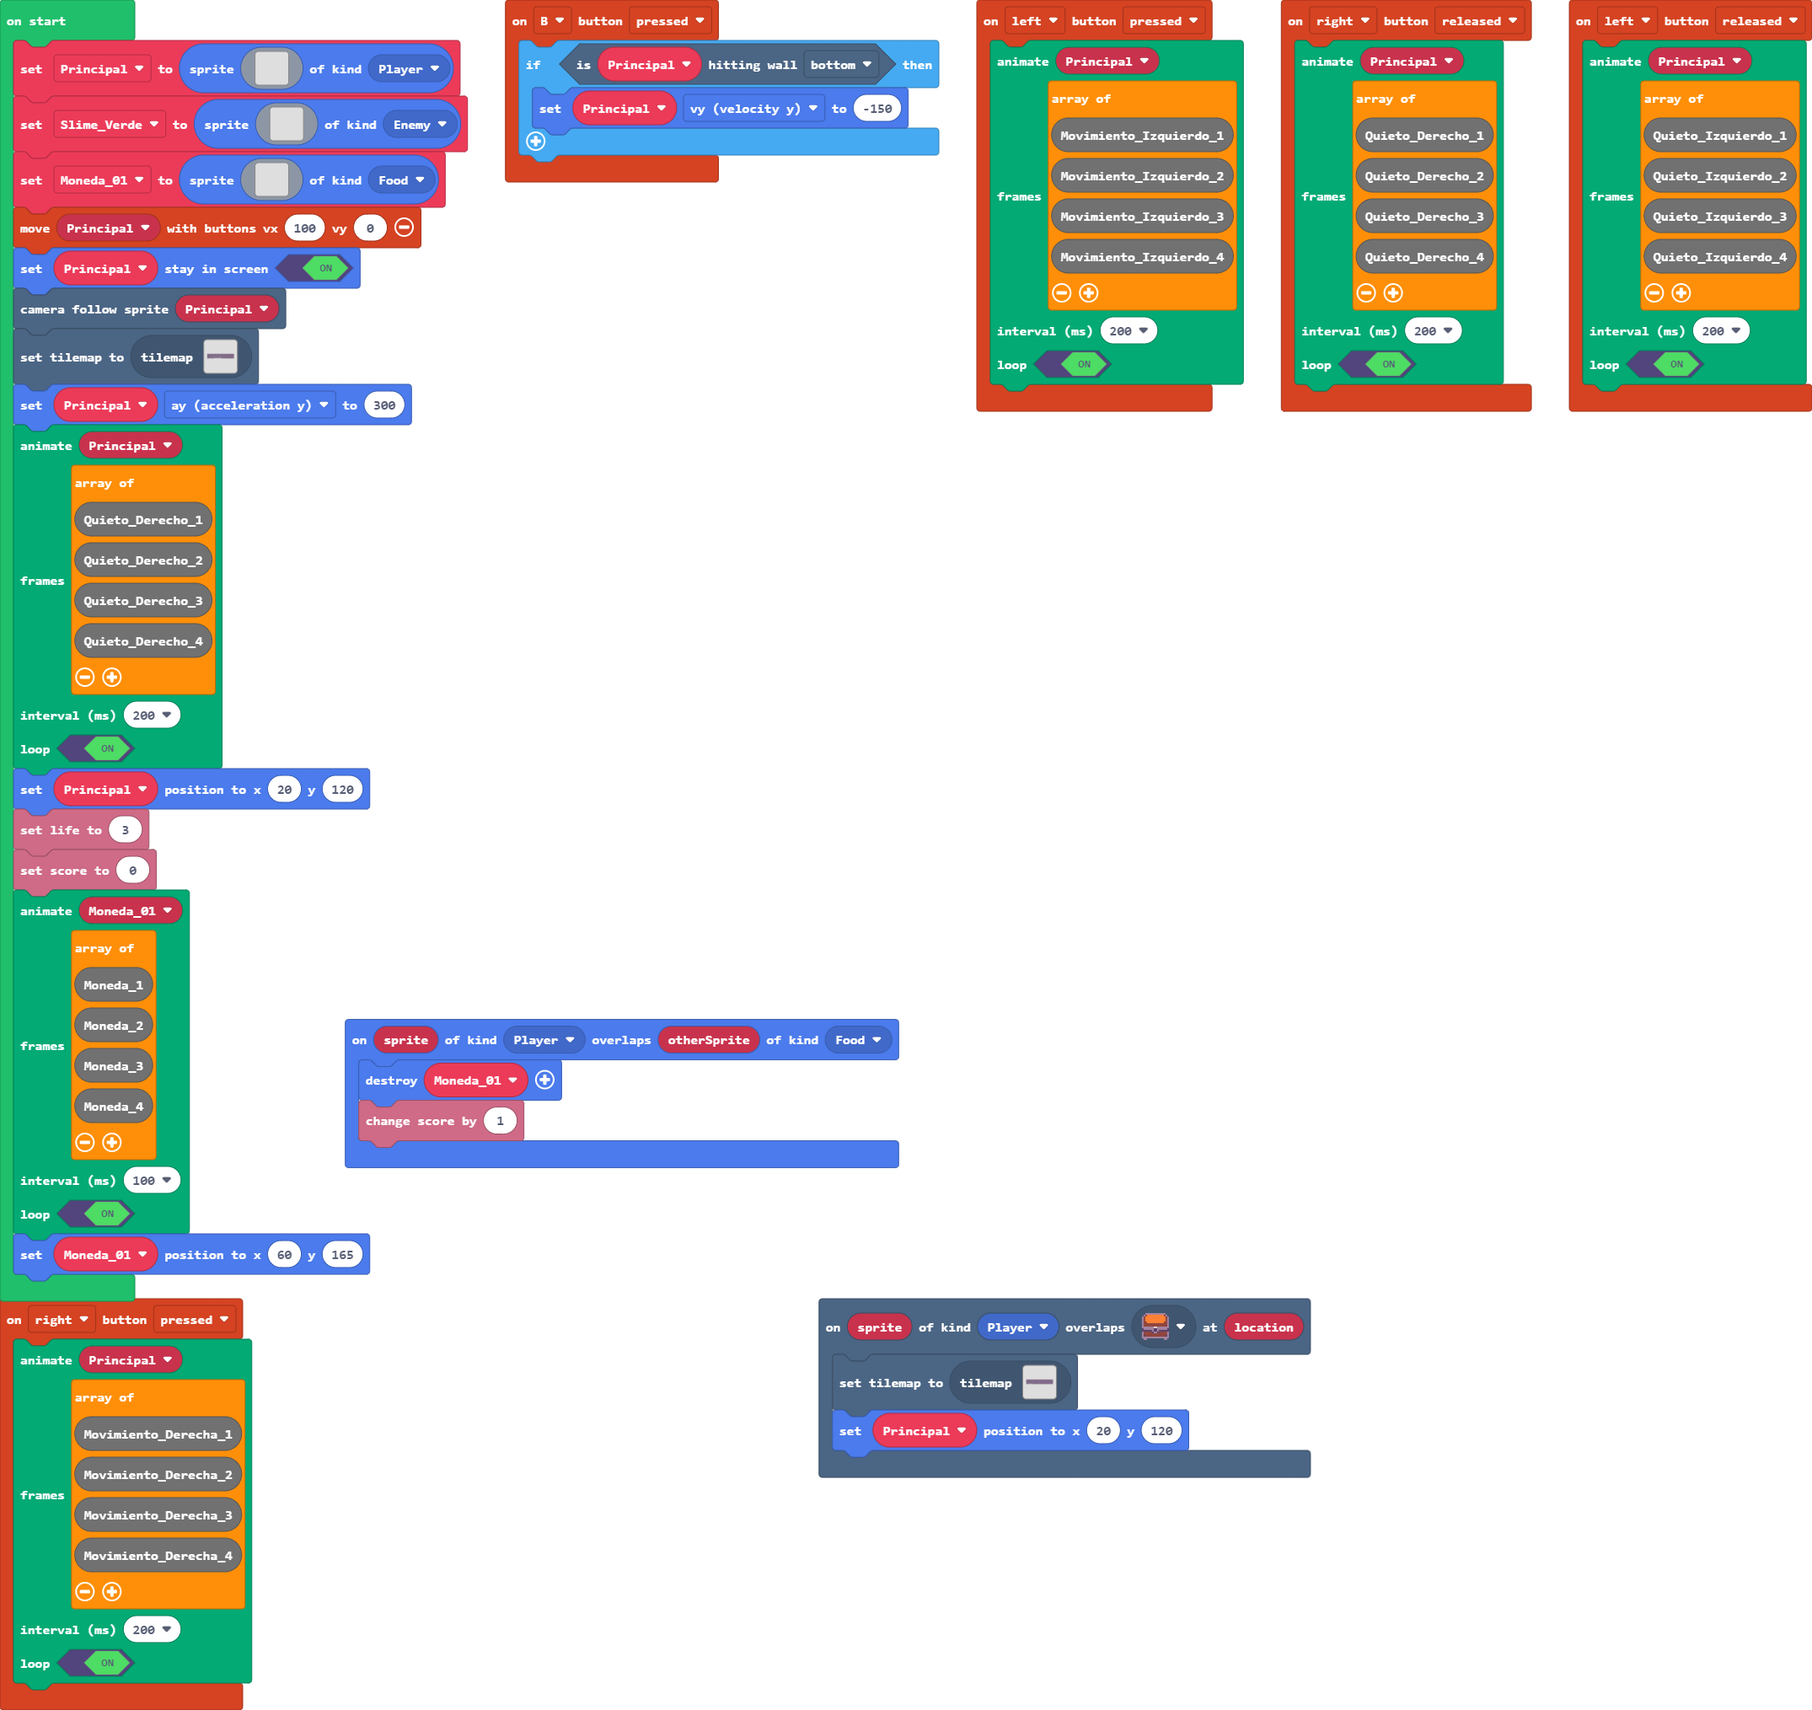
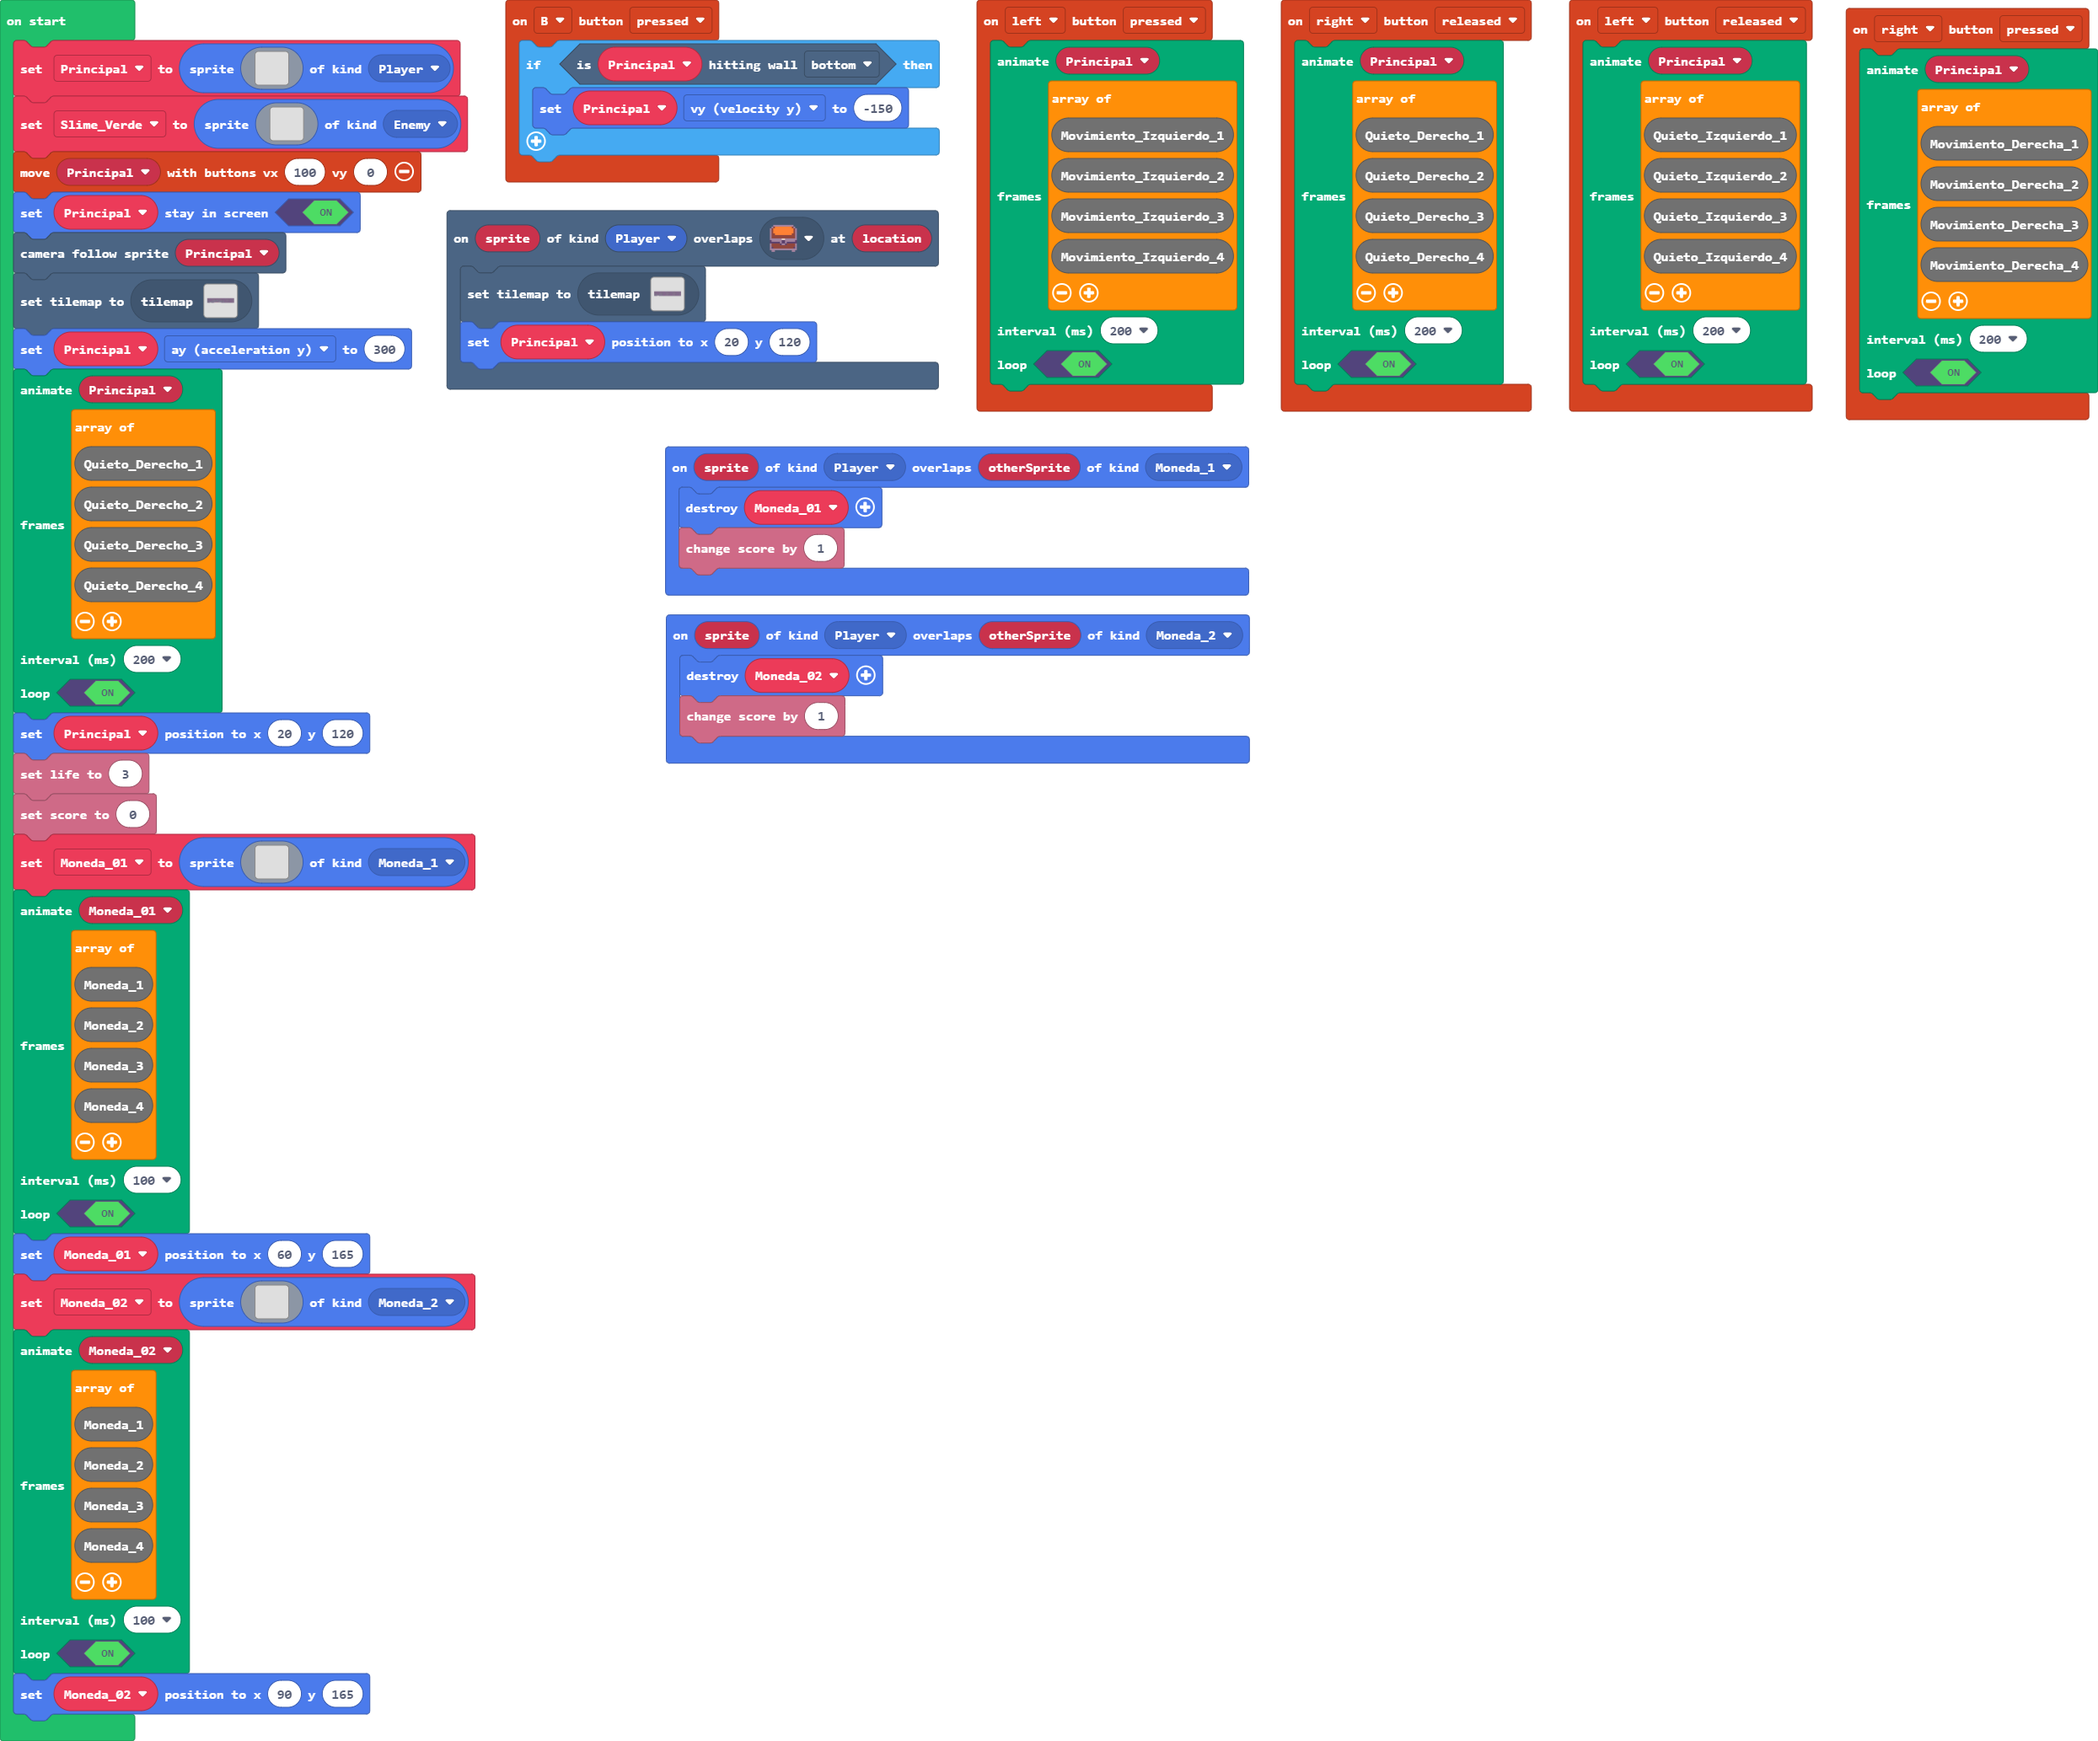
Update main.blocks, main.ts

diff --git a/main.ts b/main.ts
@@ -1,3 +1,7 @@
+namespace SpriteKind {
+    export const Moneda_1 = SpriteKind.create()
+    export const Moneda_2 = SpriteKind.create()
+}
 controller.B.onEvent(ControllerButtonEvent.Pressed, function () {
     if (Principal.isHittingTile(CollisionDirection.Bottom)) {
         Principal.vy = -150
@@ -59,10 +63,15 @@ controller.right.onEvent(ControllerButtonEvent.Pressed, function () {
     true
     )
 })
-sprites.onOverlap(SpriteKind.Player, SpriteKind.Food, function (sprite, otherSprite) {
+sprites.onOverlap(SpriteKind.Player, SpriteKind.Moneda_1, function (sprite, otherSprite) {
     sprites.destroy(Moneda_01)
     info.changeScoreBy(1)
 })
+sprites.onOverlap(SpriteKind.Player, SpriteKind.Moneda_2, function (sprite, otherSprite) {
+    sprites.destroy(Moneda_02)
+    info.changeScoreBy(1)
+})
+let Moneda_02: Sprite = null
 let Moneda_01: Sprite = null
 let Principal: Sprite = null
 Principal = sprites.create(img`
@@ -101,24 +110,6 @@ let Slime_Verde = sprites.create(img`
     . . . . . . . . . . . . . . . . 
     . . . . . . . . . . . . . . . . 
     `, SpriteKind.Enemy)
-Moneda_01 = sprites.create(img`
-    . . . . . . . . . . . . . . . . 
-    . . . . . . . . . . . . . . . . 
-    . . . . . . . . . . . . . . . . 
-    . . . . . . . . . . . . . . . . 
-    . . . . . . . . . . . . . . . . 
-    . . . . . . . . . . . . . . . . 
-    . . . . . . . . . . . . . . . . 
-    . . . . . . . . . . . . . . . . 
-    . . . . . . . . . . . . . . . . 
-    . . . . . . . . . . . . . . . . 
-    . . . . . . . . . . . . . . . . 
-    . . . . . . . . . . . . . . . . 
-    . . . . . . . . . . . . . . . . 
-    . . . . . . . . . . . . . . . . 
-    . . . . . . . . . . . . . . . . 
-    . . . . . . . . . . . . . . . . 
-    `, SpriteKind.Food)
 controller.moveSprite(Principal, 100, 0)
 Principal.setStayInScreen(true)
 scene.cameraFollowSprite(Principal)
@@ -138,6 +129,24 @@ true
 Principal.setPosition(20, 120)
 info.setLife(3)
 info.setScore(0)
+Moneda_01 = sprites.create(img`
+    . . . . . . . . . . . . . . . . 
+    . . . . . . . . . . . . . . . . 
+    . . . . . . . . . . . . . . . . 
+    . . . . . . . . . . . . . . . . 
+    . . . . . . . . . . . . . . . . 
+    . . . . . . . . . . . . . . . . 
+    . . . . . . . . . . . . . . . . 
+    . . . . . . . . . . . . . . . . 
+    . . . . . . . . . . . . . . . . 
+    . . . . . . . . . . . . . . . . 
+    . . . . . . . . . . . . . . . . 
+    . . . . . . . . . . . . . . . . 
+    . . . . . . . . . . . . . . . . 
+    . . . . . . . . . . . . . . . . 
+    . . . . . . . . . . . . . . . . 
+    . . . . . . . . . . . . . . . . 
+    `, SpriteKind.Moneda_1)
 animation.runImageAnimation(
 Moneda_01,
 [
@@ -150,3 +159,33 @@ Moneda_4
 true
 )
 Moneda_01.setPosition(60, 165)
+Moneda_02 = sprites.create(img`
+    . . . . . . . . . . . . . . . . 
+    . . . . . . . . . . . . . . . . 
+    . . . . . . . . . . . . . . . . 
+    . . . . . . . . . . . . . . . . 
+    . . . . . . . . . . . . . . . . 
+    . . . . . . . . . . . . . . . . 
+    . . . . . . . . . . . . . . . . 
+    . . . . . . . . . . . . . . . . 
+    . . . . . . . . . . . . . . . . 
+    . . . . . . . . . . . . . . . . 
+    . . . . . . . . . . . . . . . . 
+    . . . . . . . . . . . . . . . . 
+    . . . . . . . . . . . . . . . . 
+    . . . . . . . . . . . . . . . . 
+    . . . . . . . . . . . . . . . . 
+    . . . . . . . . . . . . . . . . 
+    `, SpriteKind.Moneda_2)
+animation.runImageAnimation(
+Moneda_02,
+[
+Moneda_1,
+Moneda_2,
+Moneda_3,
+Moneda_4
+],
+100,
+true
+)
+Moneda_02.setPosition(90, 165)
